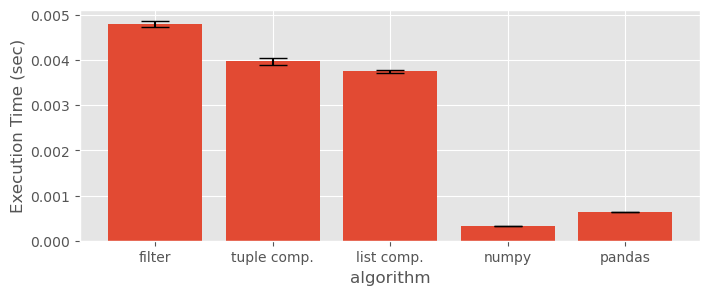
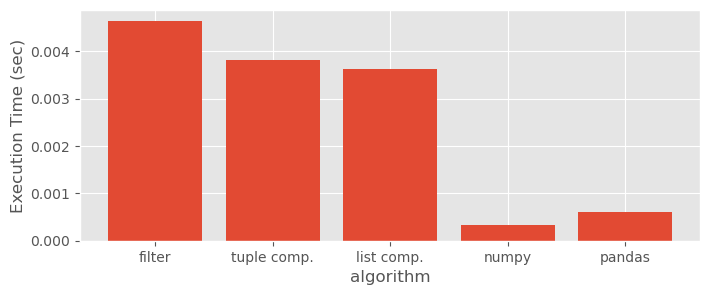
平均値と分散を見ても意味がないらしいので最小値で計算し直し

diff --git a/articles/get-timeit-result.md b/articles/get-timeit-result.md
@@ -91,8 +91,7 @@ for name, result in sim_result.items():
     data.append(
         {
             "name": name,
-            "mean": result.average,
-            "std": result.stdev,
+            "min": result.best,
             "loops": result.loops,
             "repeat": result.repeat,
         }
@@ -101,14 +100,13 @@ data = pd.DataFrame(data)
 data
 ```
 
-|        name |     mean |          std | loops | repeat |
-| ----------: | -------: | -----------: | ----: | -----: |
-|      filter | 0.004671 | 1.955384e-05 |   100 |      7 |
-| tuple comp. | 0.003846 | 1.717085e-05 |   100 |      7 |
-|  list comp. | 0.003649 | 1.697157e-05 |   100 |      7 |
-|       numpy | 0.000331 | 1.724407e-07 |  1000 |      7 |
-|      pandas | 0.000600 | 4.628435e-07 |  1000 |      7 |
-
+|        name |      min | loops | repeat |
+| ----------: | -------: | ----: | -----: |
+|      filter | 0.004643 |   100 |      7 |
+| tuple comp. | 0.003821 |   100 |      7 |
+|  list comp. | 0.003619 |   100 |      7 |
+|       numpy | 0.000331 |  1000 |      7 |
+|      pandas | 0.000599 |  1000 |      7 |
 
 ```python
 _, ax = plt.subplots(figsize=(8, 3))
@@ -120,3 +118,13 @@ plt.show()
 ![result](/images/simulate_filter_output.png)
 
 という感じでいい感じにグラフにすることができた。
+
+### 平均 v.s. 最小値
+
+なお、上記結果平均値ではなく最小値を使ってグラフを描いている。平均値や分散も取れるが、`timeit.Timer.repeat`のドキュメント[^4]によると、
+
+> 注釈 結果のベクトルから平均値や標準偏差を計算して出力させたいと思うかもしれませんが、**それはあまり意味がありません**。多くの場合、最も低い値がそのマシンが与えられたコード断片を実行する場合の下限値です。結果のうち高めの値は、Python のスピードが一定しないために生じたものではなく、その他の計測精度に影響を及ぼすプロセスによるものです。したがって、**結果のうち min() だけが見るべき値となるでしょう**。この点を押さえた上で、統計的な分析よりも常識的な判断で結果を見るようにしてください。
+
+とある。つまり最小値から超過した分は外乱が原因であることがほとんどなので最小値以外は見る必要がないとのこと。したがって最小値のみをプロットするようにした。
+
+[^4]: https://docs.python.org/ja/3/library/timeit.html#timeit.Timer.repeat
